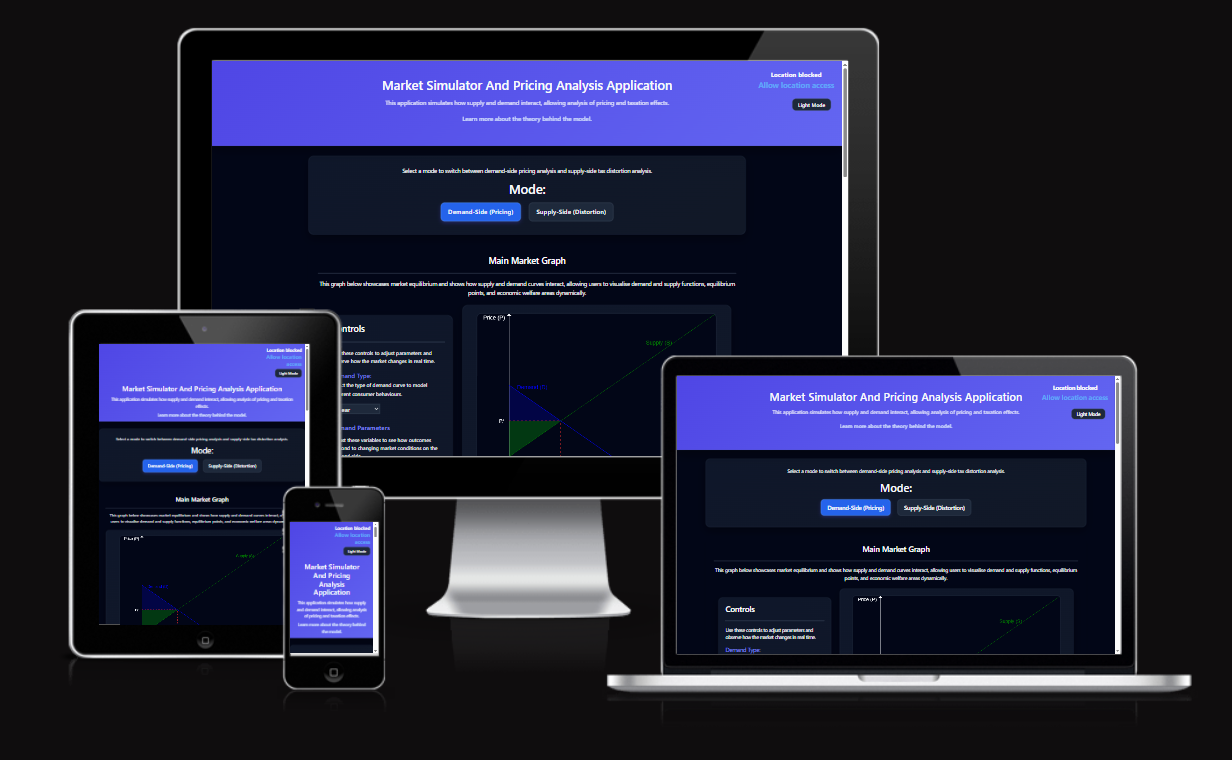
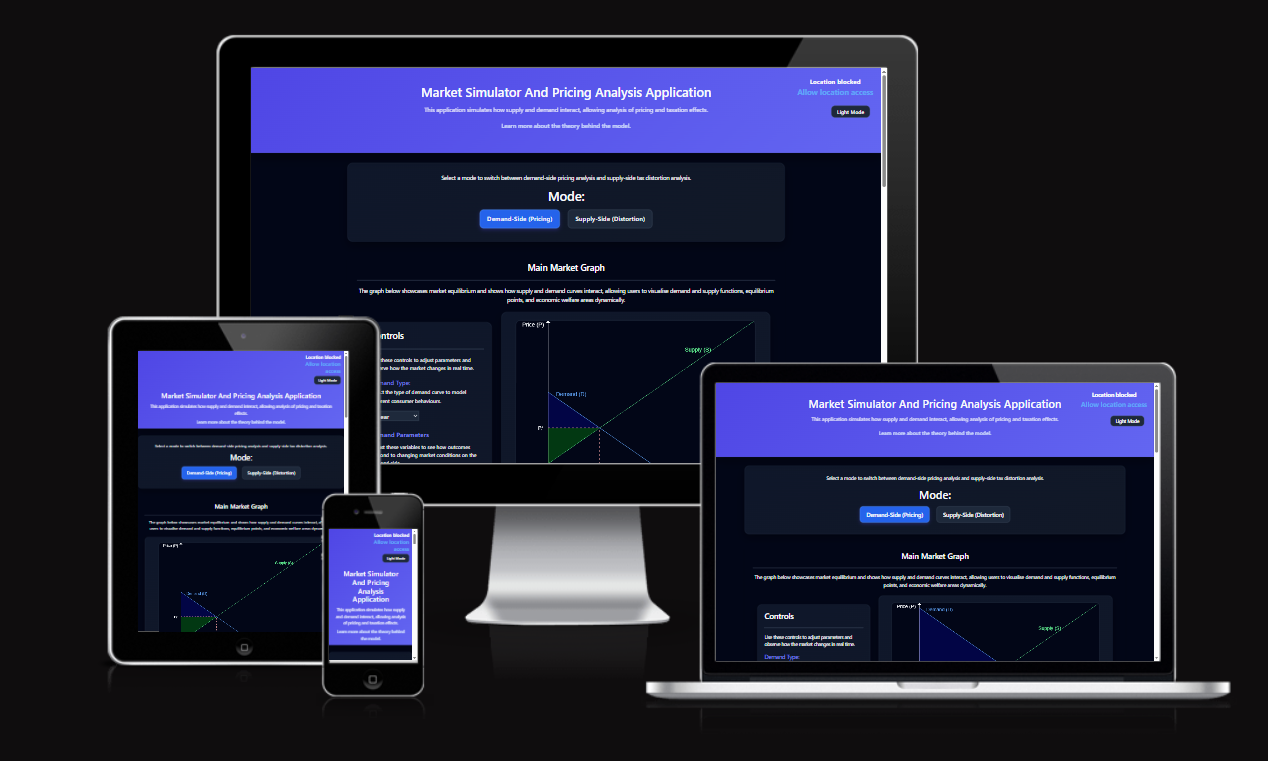
Reintegrate Scroll Behaviour on Slider Adjustment and  Update Readme with Screenshots and Additional Commentary to Highlight Visibility Changes on Canvas in Dark Mode

Changed region(s): [[0.0308, 0.0303, 0.987, 0.9382]]

diff --git a/assets/js/script.js b/assets/js/script.js
@@ -201,9 +201,9 @@ for (let slider of sliders) {
     });
 
     // when user finishes adjusting (releases the slider), scroll to the graph
-    //slider.addEventListener('change', () => {
-    //    mainSection.scrollIntoView({ behavior: 'smooth' });
-    //})
+    slider.addEventListener('change', () => {
+        mainSection.scrollIntoView({ behavior: 'smooth' });
+    })
 }
 
 demandType.addEventListener("change", (e) => {
@@ -1103,7 +1103,7 @@ function drawCurves() {
             drawPointGuides(Q, P, "P*", "Q*");
         }
         else {
-            drawPointGuides(Q, P, "P*", "Q*", "grey");
+            drawPointGuides(Q, P, "P*", "Q*", "#414A4C");
         }
     }
 
@@ -1163,7 +1163,7 @@ function drawCurves() {
                 drawPointGuides(Q0, P0, "P₀", "Q₀");
             }
             else {
-                drawPointGuides(Q0, P0, "P₀", "Q₀", "grey");
+                drawPointGuides(Q0, P0, "P₀", "Q₀", "#414A4C");
             }
         }
     }

diff --git a/README.md b/README.md
@@ -336,7 +336,7 @@ A fully integrated dark mode is included to improve usability in low-light envir
 
 ![Dark Mode View](assets/images/readme/dark-mode.PNG)
 
-Special consideration was required for graph rendering, as canvas elements do not automatically inherit CSS styling. As a result, colours for curves, labels, and shading were dynamically adjusted to ensure visibility across both light and dark themes, while preserving consistent meaning (e.g. demand, supply, and revenue colours).
+Special consideration was required for graph rendering, as canvas elements do not automatically inherit CSS styling. As a result, colours for curves, labels, and shading were dynamically adjusted to ensure visibility across both light and dark themes, while preserving consistent meaning (e.g. demand, supply, and revenue colours). In particular, the standard darker colour palette for the demand and supply curves and their labels in light mode was brightened significantly to increase contrast with the dark canvas background in dark mode, while the point guides used to indicate key prices and quantities was also given a brighter tone along with the axes and their labels.
 
 ### Theory Page
 
